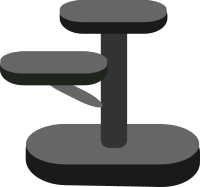
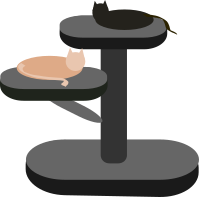
better

diff --git a/docs/index.rst b/docs/index.rst
@@ -3,7 +3,7 @@
    You can adapt this file completely to your liking, but it should at least
    contain the root `toctree` directive.
 
-Xattree documentation
+xattree documentation
 =====================
 
 An `xarray <https://docs.xarray.dev/en/stable/index.html>`_ integration for `attrs <https://www.attrs.org/en/stable/>`_, or vice versa.
